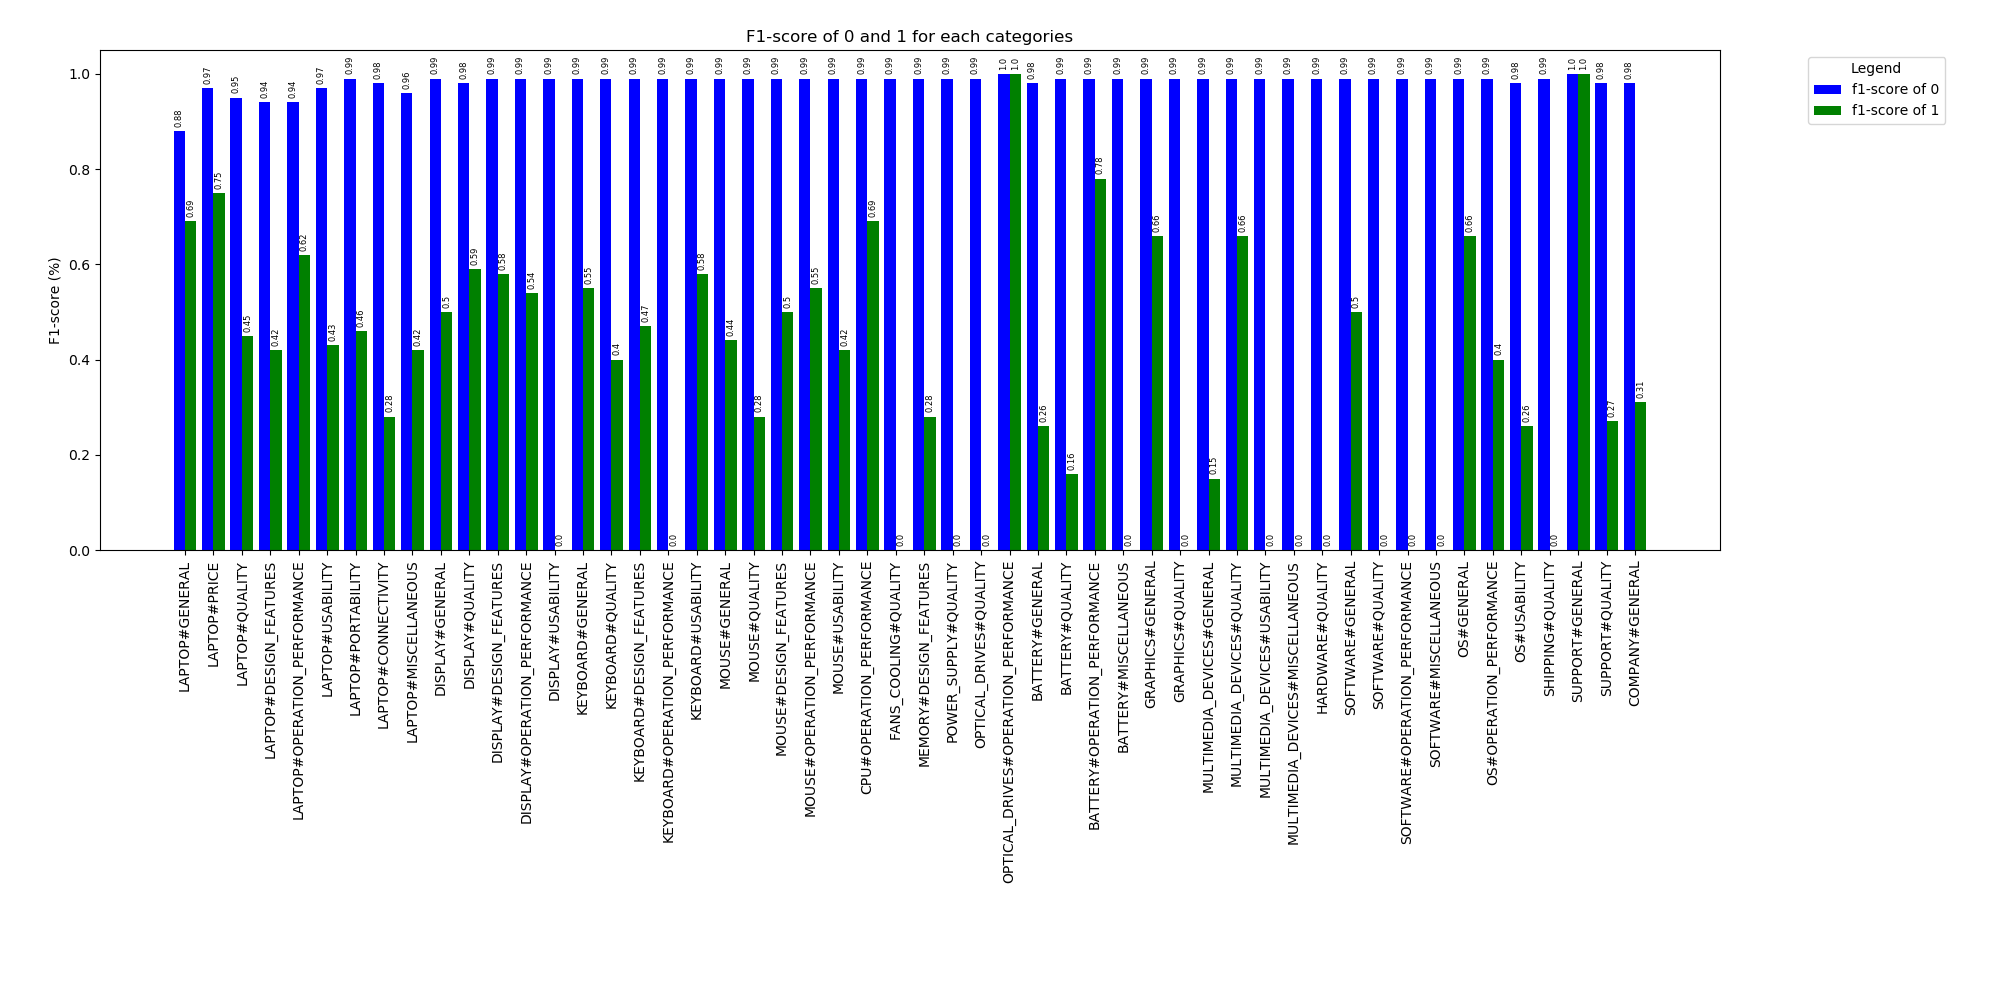
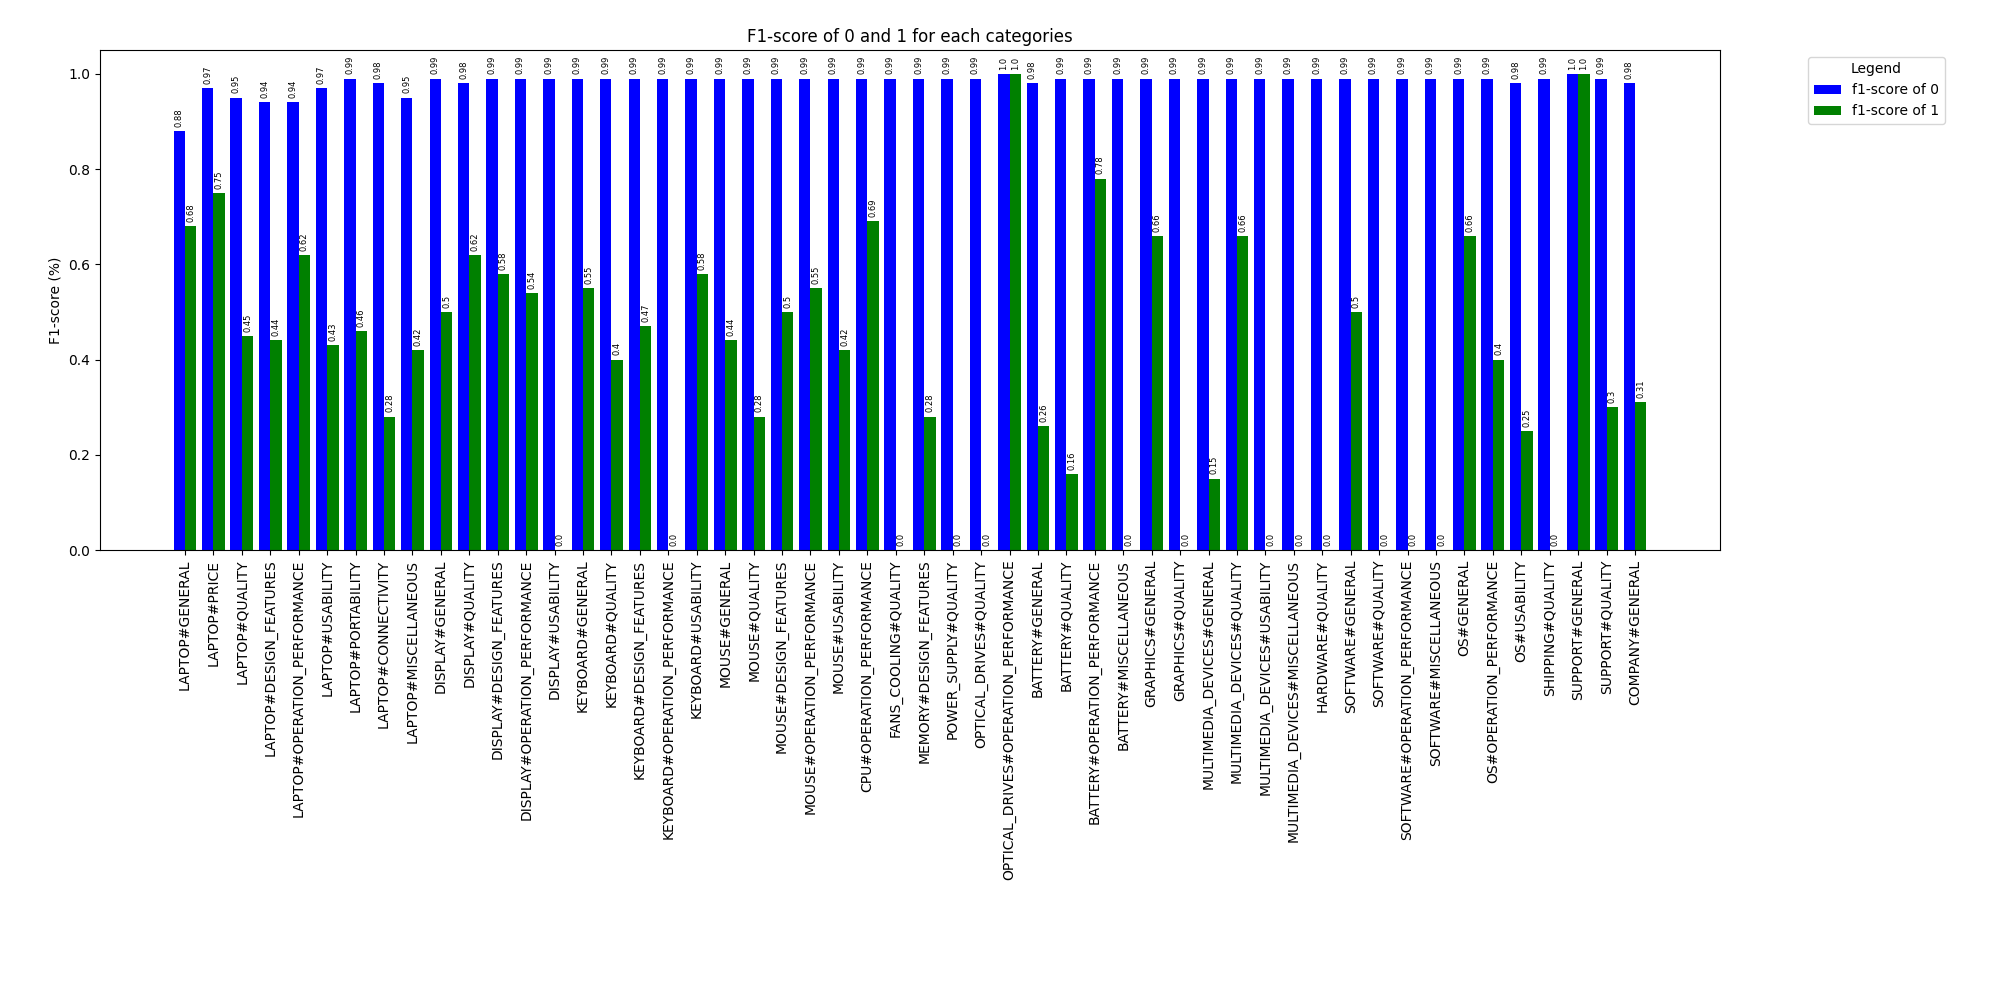
poo clf

diff --git a/Classify.py b/Classify.py
@@ -1,4 +1,5 @@
 from PlotResult import *
+from PreProcessing import preProcessing
 #sklearn
 from sklearn.model_selection import train_test_split
 from sklearn.feature_extraction.text import TfidfVectorizer
@@ -12,113 +13,136 @@ from sklearn.metrics import confusion_matrix
 from sklearn.metrics import classification_report
 from imblearn.over_sampling import ADASYN
 
+class LaptopClassifier:
 
-def CreateClassifieur(df,allCategory):
-    df = df.drop(labels = ['id'], axis=1) #No Use
+    def CreateClassifieur(self,df,allCategory):
+        df = df.drop(labels = ['id'], axis=1) #No Use
 
-    vectorizer = TfidfVectorizer(strip_accents='unicode', analyzer='word', ngram_range=(1,8), norm='l2')
-    matrice = vectorizer.fit_transform(df.text)
+        self.vectorizer = TfidfVectorizer(strip_accents='unicode', analyzer='word', ngram_range=(1,8), norm='l2')
+        matrice = self.vectorizer.fit_transform(df.text)
 
-    #voir pour avoir le fichier de test
-    x_train = vectorizer.transform(df.text)
-    y_train = df.drop(labels = ['text'], axis=1)
+        #voir pour avoir le fichier de test
+        x_train = self.vectorizer.transform(df.text)
+        y_train = df.drop(labels = ['text'], axis=1)
+        
+        self.classifieur = dict()
+
+        self.classifyCategory = []
     
-    Classifieur = dict()
+        for category in allCategory:
 
-    ClassifyCategory = []
-   
-    for category in allCategory:
+            #INCREASE POPULATION 
+            ADA = ADASYN(sampling_strategy='auto',n_neighbors = 4)
+        
+            nb_class = getNumberOfClass(y_train[category])
+            if(nb_class > 1): #can't resample if there is one class.
+                x_resample, y_resample =  ADA.fit_resample(x_train,y_train[category])
+                self.classifyCategory.append(category)
+            else :
+                continue
+
+            print('**Processing {} comments...**'.format(category))
+            # Using pipeline for applying logistic regression and one vs rest classifier
+            LogReg_pipeline = Pipeline([
+                    ('clf', OneVsRestClassifier(LogisticRegression(solver='sag', class_weight='balanced', max_iter=1000, n_jobs=-1), n_jobs=-1)),
+                ])
+
+            # Training logistic regression model on train data
+            clf = LogReg_pipeline.fit(x_resample, y_resample)
+
+            self.classifieur[category] = clf
+            prediction = clf.predict(x_train)
+            report = classification_report(y_train[category],prediction,zero_division=1)
+            print(report)
 
         #INCREASE POPULATION 
-        ADA = ADASYN(sampling_strategy='auto',n_neighbors = 4)
-    
-        nb_class = getNumberOfClass(y_train[category])
-        if(nb_class > 1): #can't resample if there is one class.
-            x_resample, y_resample =  ADA.fit_resample(x_train,y_train[category])
-            ClassifyCategory.append(category)
-        else :
-            continue
+        ADAPol = ADASYN(sampling_strategy='minority',n_neighbors = 10)
+        x_resample, y_resample =  ADAPol.fit_resample(x_train,y_train['polarity'])
 
-        print('**Processing {} comments...**'.format(category))
-        # Using pipeline for applying logistic regression and one vs rest classifier
+        #POLARITY
+        print('**Processing polarity...**')
         LogReg_pipeline = Pipeline([
-                ('clf', OneVsRestClassifier(LogisticRegression(solver='sag', class_weight='balanced', max_iter=1000, n_jobs=-1), n_jobs=-1)),
-            ])
+            ('clf', OneVsRestClassifier(LogisticRegression(solver='sag', class_weight='balanced', max_iter=1000 ,n_jobs=-1), n_jobs=-1)),
+        ])
+        self.classifieur['polarity'] = LogReg_pipeline.fit(x_resample, y_resample)
 
-        # Training logistic regression model on train data
-        clf = LogReg_pipeline.fit(x_resample, y_resample)
+        prediction = self.classifieur['polarity'].predict(x_train)
+        print(classification_report(y_train['polarity'],prediction,zero_division=1))
 
-        Classifieur[category] = clf
-        prediction = clf.predict(x_resample)
-        report = classification_report(y_resample,prediction,zero_division=1)
-        print(report)
 
-    #POLARITY
-    print('**Processing polarity...**')
-    LogReg_pipeline = Pipeline([
-        ('clf', OneVsRestClassifier(LogisticRegression(solver='sag', class_weight='balanced', max_iter=1000 ,n_jobs=-1), n_jobs=-1)),
-    ])
-    Classifieur['polarity'] = LogReg_pipeline.fit(x_train, y_train['polarity'])
-    prediction = Classifieur['polarity'].predict(x_train)
-    print(classification_report(y_train['polarity'],prediction,zero_division=1))
+        return self
 
-    return Classifieur,vectorizer,ClassifyCategory
+    def orArray(self,L1,L2):
+        for i in range(len(L1)):
+            L1[i] = L1[i] | L2[i]
 
-def orArray(L1,L2):
-    for i in range(len(L1)):
-        L1[i] = L1[i] | L2[i]
+    def predictTestData(self,dfTest):
+        dfTest = dfTest.drop(labels = ['id'], axis=1) #No Use
 
-def predictTestData(Classifieur,vectorizer,ClassifyCategory,dfTest):
-    dfTest = dfTest.drop(labels = ['id'], axis=1) #No Use
+        #voir pour avoir le fichier de test
+        x_test = self.vectorizer.transform(dfTest.text)
+        y_test = dfTest.drop(labels = ['text'], axis=1)
 
-    #voir pour avoir le fichier de test
-    x_test = vectorizer.transform(dfTest.text)
-    y_test = dfTest.drop(labels = ['text'], axis=1)
+        names=[]
+        f1scoresFalse = []
+        f1scoresTrue = []
+        scoresTrue = []
+        supportTrue = []
+        predictEntity = dict()
+        realEntity = dict()
+        for category in self.classifyCategory:
+            
+            print("Pour la categorie",category,":")
+            prediction = self.classifieur[category].predict(x_test)
 
-    names=[]
-    f1scoresFalse = []
-    f1scoresTrue = []
-    scoresTrue = []
-    supportTrue = []
-    predictEntity = dict()
-    realEntity = dict()
-    for category in ClassifyCategory:
+            print(classification_report(y_test[category],prediction,zero_division=1))
+            
+            #DATA FOR PLOT
+            entity = category.split("#")[0]
+            if(not entity in predictEntity):
+                predictEntity[entity] = prediction[:]
+                realEntity[entity] = y_test[category][:]
+            else:
+                self.orArray(predictEntity[entity],prediction)
+                self.orArray(realEntity[entity],y_test[category])
+
+            if(sum(y_test[category]) == 0) : 
+                continue
+            
+            report = classification_report(y_test[category],prediction,zero_division=1, output_dict=True)
+            supportTrue.append(report['1']['support'])
+            scoresTrue.append(report['1']['precision'])
+            f1scoresFalse.append(report['0']['f1-score'])
+            f1scoresTrue.append(report['1']['f1-score'])
+            #scores.append(np.mean(precision_score(y_test[category],prediction,average=None)))
+            names.append(category)
+
+        #polarity classification
+        print("Pour la polarité :")
+        predictionPol = self.classifieur['polarity'].predict(x_test)
+        print(classification_report(y_test['polarity'],predictionPol,zero_division=1))
+
+        plotTrueData(names,scoresTrue,supportTrue)
+        plotDataF1Score(names, f1scoresFalse, f1scoresTrue)
+        plotDataEntity(predictEntity,realEntity)
+        plotPolarity(predictionPol,y_test['polarity'])
+
+    def ClassifyString(self,string):
+        if(self.classifieur==None):
+            print("not initialised clf")
+            return
+        print(string, " -> ")
+        preComputeString = self.vectorizer.transform([preProcessing(string)])
+
+        for category in self.classifyCategory:
+            
+            prediction = self.classifieur[category].predict(preComputeString)
+            if(prediction[0]==1):
+                print(category)
         
-        print("Pour la categorie",category,":")
-        prediction = Classifieur[category].predict(x_test)
-
-        print(classification_report(y_test[category],prediction,zero_division=1))
-        
-        #DATA FOR PLOT
-        entity = category.split("#")[0]
-        if(not entity in predictEntity):
-            predictEntity[entity] = prediction[:]
-            realEntity[entity] = y_test[category][:]
-        else:
-            orArray(predictEntity[entity],prediction)
-            orArray(realEntity[entity],y_test[category])
-
-        if(sum(y_test[category]) == 0) : 
-            continue
-        
-        report = classification_report(y_test[category],prediction,zero_division=1, output_dict=True)
-        supportTrue.append(report['1']['support'])
-        scoresTrue.append(report['1']['precision'])
-        f1scoresFalse.append(report['0']['f1-score'])
-        f1scoresTrue.append(report['1']['f1-score'])
-        #scores.append(np.mean(precision_score(y_test[category],prediction,average=None)))
-        names.append(category)
-
-    #polarity classification
-    print("Pour la polarité :")
-    predictionPol = Classifieur['polarity'].predict(x_test)
-    print(classification_report(y_test['polarity'],predictionPol,zero_division=1))
-
-    plotTrueData(names,scoresTrue,supportTrue)
-    plotDataF1Score(names, f1scoresFalse, f1scoresTrue)
-    plotDataEntity(predictEntity,realEntity)
-    plotPolarity(predictionPol,y_test['polarity'],)
-
+        #POLARITY
+        predictionPol = self.classifieur['polarity'].predict(preComputeString)
+        print("The polarity is :",POLARITY_DIC_ANSWER[predictionPol[0]])
 
 def getNumberOfClass(y_tab):
     class_list = []
@@ -128,5 +152,5 @@ def getNumberOfClass(y_tab):
         if(c_class not in class_list):
             nb += 1
             class_list.append(c_class)
-    
+        
     return nb

diff --git a/Program.py b/Program.py
@@ -11,23 +11,13 @@ import random
 import json
 from os import path
 
+CLF = None
 
-def ClassifyString(Classifieur,vectorizer,ClassifyCategory,string):
-    print(string, " -> ")
-    preComputeString = vectorizer.transform([preProcessing(string)])
 
-    for category in ClassifyCategory:
-        
-        prediction = Classifieur[category].predict(preComputeString)
-        if(prediction[0]==1):
-            print(category)
-    
-    #POLARITY
-    predictionPol = Classifieur['polarity'].predict(preComputeString)
-    print("The polarity is :",POLARITY_DIC_ANSWER[predictionPol[0]])
+
 
 def main():
-
+    global CLF
     df = getDFFromXML("train_data.xml")
     print(df)
 
@@ -43,51 +33,23 @@ def main():
 
     print("\n\n#################################################################################################\n\n")
     #Classification(df)
-    Classifieur,vectorizer,ClassifyCategory = CreateClassifieur(df,ALL_CATEGORIES)
-    predictTestData(Classifieur,vectorizer,ClassifyCategory,dfTest)
+    CLF = LaptopClassifier()
+    CLF.CreateClassifieur(df,ALL_CATEGORIES)
+    CLF.predictTestData(dfTest)
 
-    '''
-    if(path.exists(FILE_RANDOM_STATE)):
-        f = open(FILE_RANDOM_STATE, "r")
-        randomStateDict=json.load(f)
-
-    categoryToGenerate= ALL_CATEGORIES[:]
-    categoryToGenerate.append("polarity")
-    randomStateDict=generateRandomStateDictionary(df,categoryToGenerate,randomState=randomStateDict)
-
-    Classifieur,vectorizer,ClassifyCategory = CreateClassifieurWithRandomState(df,randomStateDict)
-    predictTestData(Classifieur,vectorizer,ClassifyCategory,dfTest)
-    '''
     
 
     print("\n\n#################################################################################################\n\n")
-    ClassifyString(Classifieur,vectorizer,ClassifyCategory,"Battery could be better but it has robust processor and plenty of RAM so that is a trade off I suppose.")
+    CLF.ClassifyString("Battery could be better but it has robust processor and plenty of RAM so that is a trade off I suppose.")
     print("\n\n#################################################################################################\n\n")
-    ClassifyString(Classifieur,vectorizer,ClassifyCategory,"slow processor, just not it")
+    CLF.ClassifyString("slow processor, just not it")
     print("\n\n#################################################################################################\n\n")
-    ClassifyString(Classifieur,vectorizer,ClassifyCategory,"Battery life is astonishing given the processing power and high resolution display.")
+    CLF.ClassifyString("Battery life is astonishing given the processing power and high resolution display.")
     print("\n\n#################################################################################################\n\n")
-    ClassifyString(Classifieur,vectorizer,ClassifyCategory,"The processor shows a speed of 1.7gz.")
+    CLF.ClassifyString("The processor shows a speed of 1.7gz.")
     print("\n\n#################################################################################################\n\n")
-    ClassifyString(Classifieur,vectorizer,ClassifyCategory,"Overall good but processing power isn't very good.")
-    print("\n\n#################################################################################################\n\n")
-    ClassifyString(Classifieur,vectorizer,ClassifyCategory,"And processor feels pressured even though I run medium scale programs, watching the way exhaust speed increases.")
-    print("\n\n#################################################################################################\n\n")
-    ClassifyString(Classifieur,vectorizer,ClassifyCategory,"Pretty much every major game save for Solitare won't even play on it due to the slower processor.")
-
-    print("\n\n#################################################################################################\n\n")
-    ClassifyString(Classifieur,vectorizer,ClassifyCategory,"Performance wise, it's a bit slow, but that's to be expected from a Celeron-class processor.")
-    print("\n\n#################################################################################################\n\n")
-    ClassifyString(Classifieur,vectorizer,ClassifyCategory,"Other than the slow CPU it works great for everyday use.")
-    print("\n\n#################################################################################################\n\n")
-    ClassifyString(Classifieur,vectorizer,ClassifyCategory,"The i7 is incredibly fast, the RAM makes it proper for several games (not on maximum quality).")
-    print("\n\n#################################################################################################\n\n")
-    ClassifyString(Classifieur,vectorizer,ClassifyCategory,"Retina screen, solid build quality, weight, fast processor and the reliability of the Apple brand.")
-    print("\n\n#################################################################################################\n\n")
-    ClassifyString(Classifieur,vectorizer,ClassifyCategory,"The laptop is very responsice with the Core i7 processor and 8GB of RAM and the sound out of the Beats audio is great.")
-    print("\n\n#################################################################################################\n\n")
-    ClassifyString(Classifieur,vectorizer,ClassifyCategory,"")
-
+    CLF.ClassifyString( "Overall good but processing power isn't very good.")
+    
 
 
 
